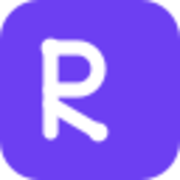
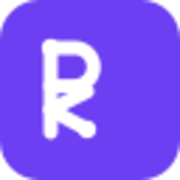
Changes

diff --git a/src/components/site/BrandMark.tsx b/src/components/site/BrandMark.tsx
@@ -25,13 +25,14 @@ export function BrandMark({ className }: { className?: string }) {
         <path d="M9 4.5V27.5" />
         {/* P bowl */}
         <path d="M9 4.5h7.5a5.75 5.75 0 0 1 0 11.5H9" />
-        {/* K leg */}
-        <path d="M9 19.5 22 27.5" opacity="0.9" />
+        {/* K legs */}
+        <path d="M9 22.5 20.5 16.5" opacity="0.9" />
+        <path d="M9 22.5 20.5 28.5" opacity="0.9" />
       </g>
       <g fill="currentColor">
         <circle cx="9" cy="4.5" r="2.6" />
-        <circle cx="22" cy="27.5" r="2.6" />
-        <circle cx="9" cy="19.5" r="1.7" opacity="0.75" />
+        <circle cx="20.5" cy="28.5" r="2.4" />
+        <circle cx="20.5" cy="16.5" r="1.8" opacity="0.8" />
       </g>
     </svg>
   );
